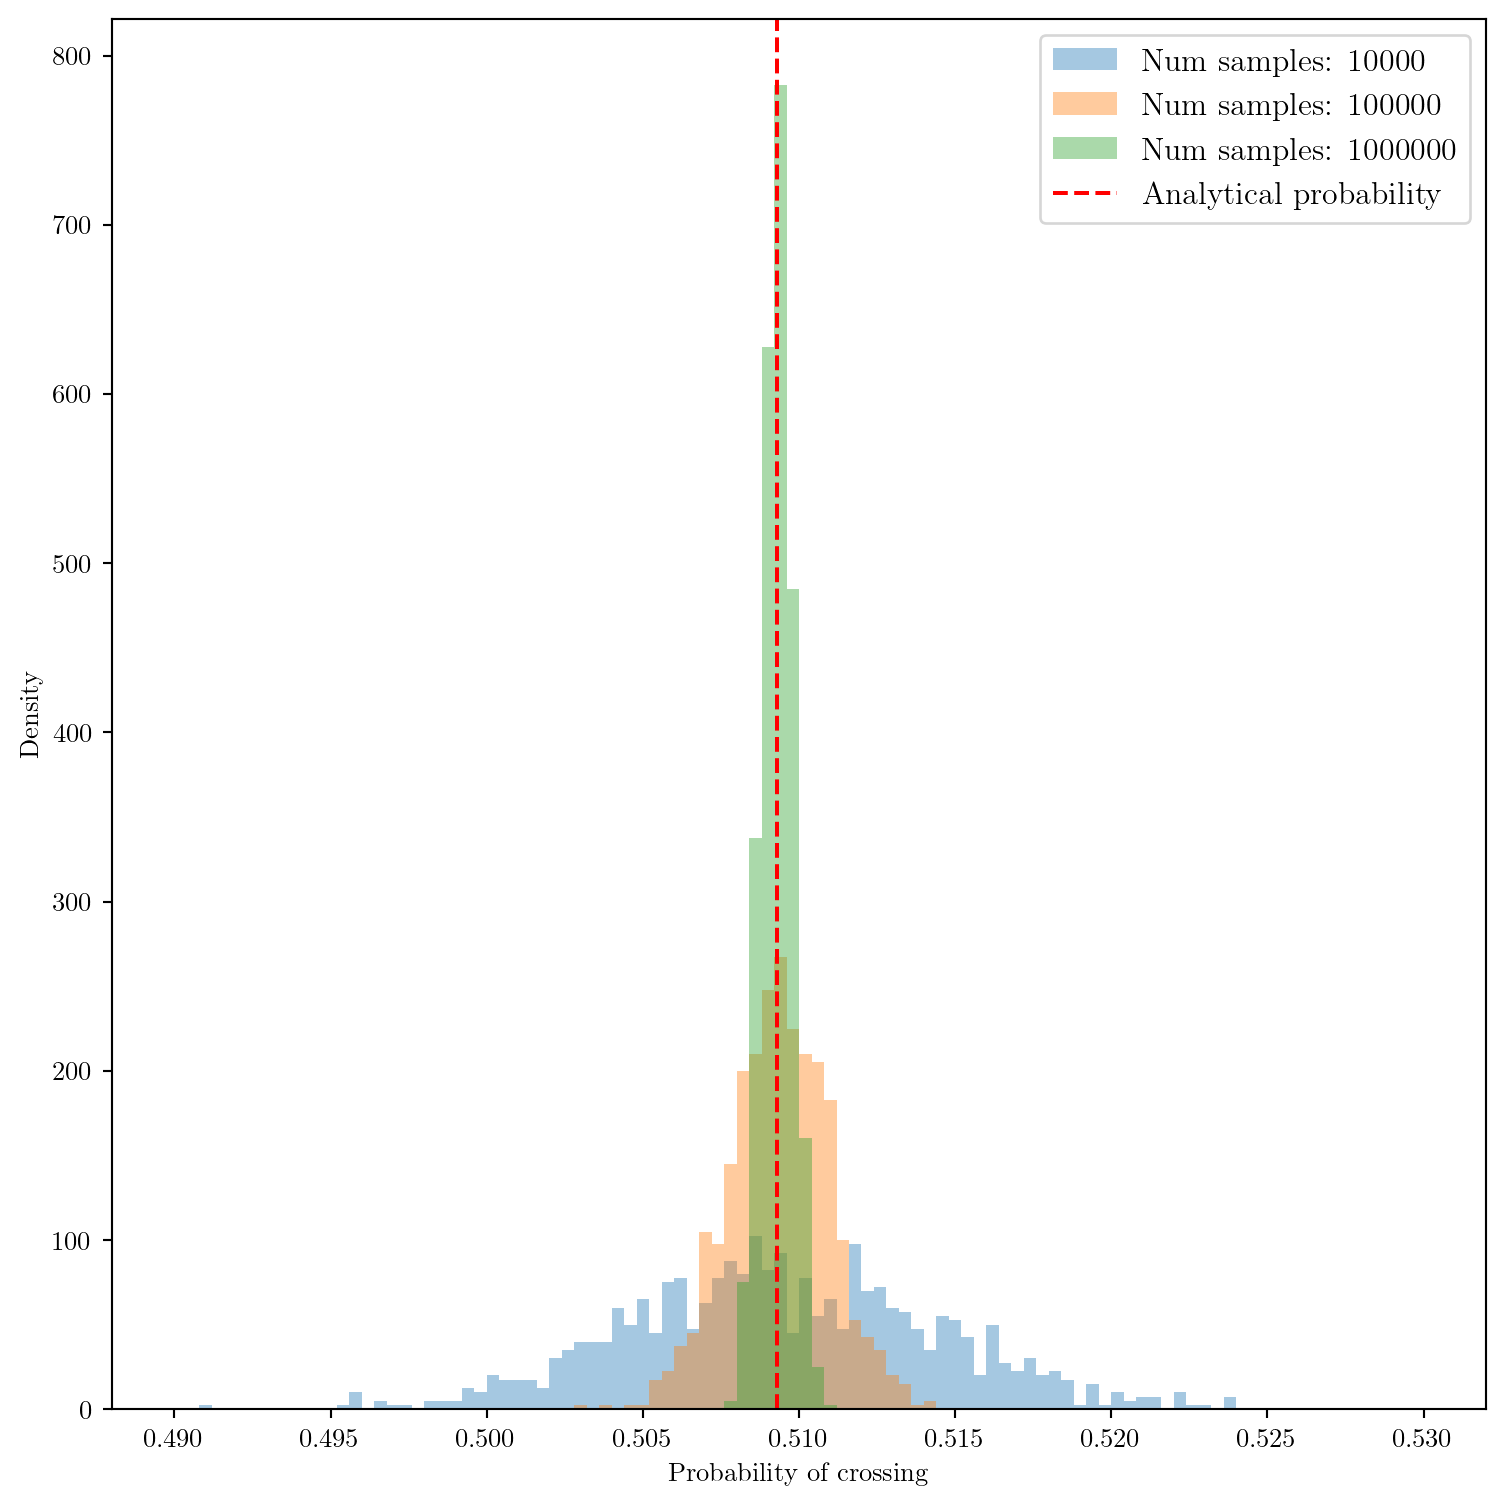
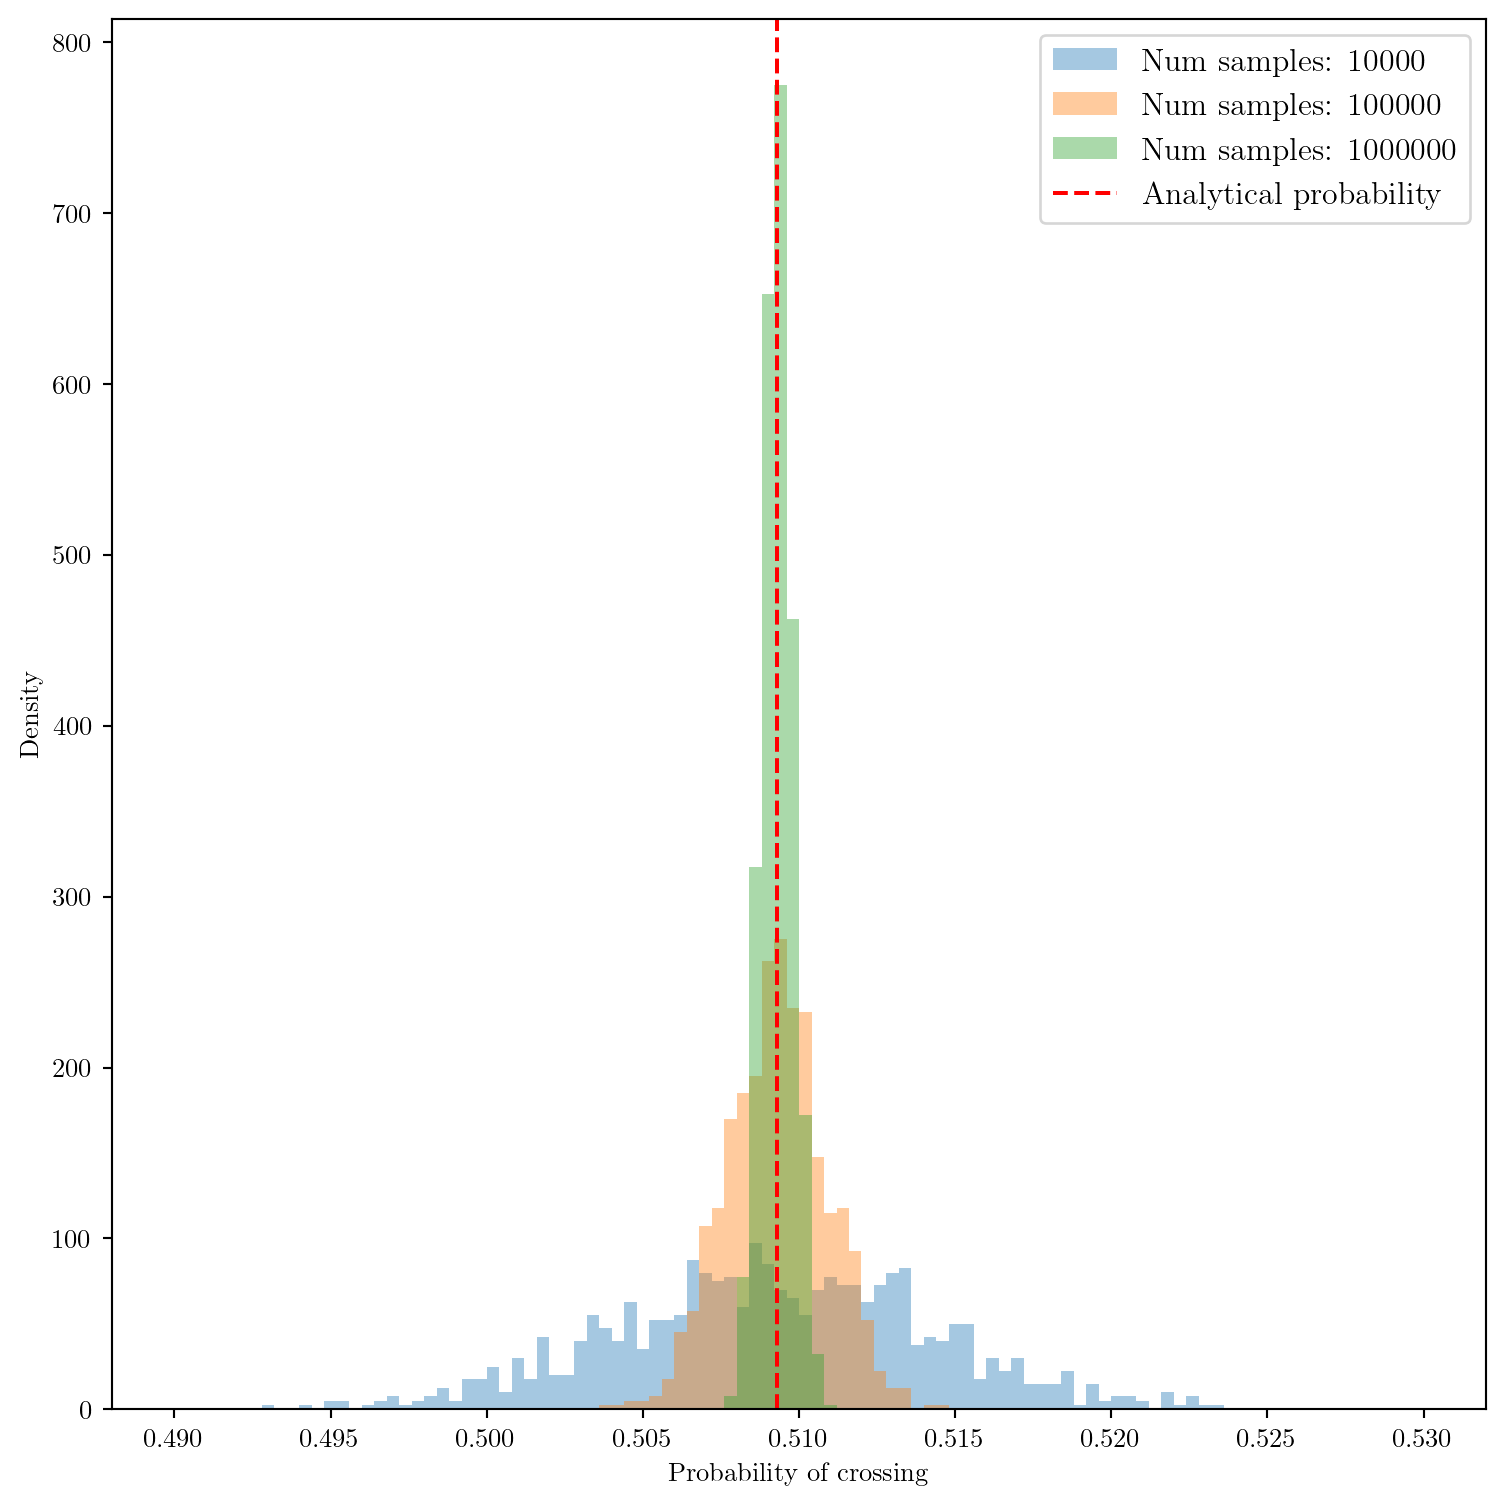
Built site for gh-pages

diff --git a/Phy_Stat_UPC/aiguille_aleatoire.html b/Phy_Stat_UPC/aiguille_aleatoire.html
@@ -67,7 +67,7 @@ pre > code.sourceCode > span > a:first-child::before { text-decoration: underlin
 <script src="../site_libs/quarto-search/fuse.min.js"></script>
 <script src="../site_libs/quarto-search/quarto-search.js"></script>
 <meta name="quarto:offset" content="../">
-<link href="../https://emojipedia.org/milky-way" rel="icon">
+<link href="../assets/milky-way.png" rel="icon" type="image/png">
 <script src="../site_libs/quarto-html/quarto.js"></script>
 <script src="../site_libs/quarto-html/popper.min.js"></script>
 <script src="../site_libs/quarto-html/tippy.umd.min.js"></script>
@@ -251,7 +251,7 @@ window.Quarto = {
 </header>
 
 
-<div id="6e35c96d" class="cell" data-execution_count="1">
+<div id="aaf92d01" class="cell" data-execution_count="1">
 <div class="cell-output cell-output-stderr">
 <pre><code>&lt;frozen importlib._bootstrap&gt;:241: RuntimeWarning:
 
@@ -296,7 +296,7 @@ Figure&nbsp;1: Visualisation des aiguilles échantillonnées aléatoirement.
 </div>
 </div>
 <p>On peut maintenant implémenter des fonctions pour déterminer si une aiguille croise la ligne <span class="math inline">\(x=0\)</span>. Nous pouvons adopter deux stratégies: - Vérifier si l’aiguille croise en utilisant les extrémités de l’aiguille (<code>is_needle_crossing_endpoint</code>). - Vérifier si l’aiguille croise en utilisant le centre (<code>is_needle_crossing_middle</code>).</p>
-<div id="618c046a" class="cell" data-execution_count="6">
+<div id="5bce7862" class="cell" data-execution_count="6">
 <div class="sourceCode cell-code" id="cb2"><pre class="sourceCode python code-with-copy"><code class="sourceCode python"><span id="cb2-1"><a href="#cb2-1" aria-hidden="true" tabindex="-1"></a>np.<span class="bu">all</span>( is_needle_crossing_endpoint(x, angle, l) <span class="op">==</span> is_needle_crossing_middle(x, angle, l))</span></code><button title="Copy to Clipboard" class="code-copy-button"><i class="bi"></i></button></pre></div>
 <div class="cell-output cell-output-display" data-execution_count="6">
 <pre><code>False</code></pre>
@@ -320,7 +320,7 @@ Figure&nbsp;2: Visualisation des aiguilles échantillonnées aléatoirement avec
 <section id="calcul-de-la-probabilité-de-croisement" class="level2">
 <h2 class="anchored" data-anchor-id="calcul-de-la-probabilité-de-croisement">Calcul de la probabilité de croisement</h2>
 <p>On peut maintenant écrire une fonction pour estimer la probabilité de croisement en échantillonnant un grand nombre d’aiguilles et en comptant le nombre de croisements.</p>
-<div id="7f6451ce" class="cell" data-execution_count="8">
+<div id="0bd7cfd0" class="cell" data-execution_count="8">
 <div class="sourceCode cell-code" id="cb4"><pre class="sourceCode python code-with-copy"><code class="sourceCode python"><span id="cb4-1"><a href="#cb4-1" aria-hidden="true" tabindex="-1"></a><span class="kw">def</span> compute_probability(num_samples, a, l):</span>
 <span id="cb4-2"><a href="#cb4-2" aria-hidden="true" tabindex="-1"></a>    <span class="co">"""</span></span>
 <span id="cb4-3"><a href="#cb4-3" aria-hidden="true" tabindex="-1"></a><span class="co">    Computes the probability of crossing the line x=0.</span></span>
@@ -343,20 +343,20 @@ Figure&nbsp;2: Visualisation des aiguilles échantillonnées aléatoirement avec
 <span id="cb4-20"><a href="#cb4-20" aria-hidden="true" tabindex="-1"></a>    bool_crossing <span class="op">=</span> is_needle_crossing_endpoint(x, angle, l)</span>
 <span id="cb4-21"><a href="#cb4-21" aria-hidden="true" tabindex="-1"></a>    <span class="cf">return</span> np.mean(bool_crossing)</span></code><button title="Copy to Clipboard" class="code-copy-button"><i class="bi"></i></button></pre></div>
 </div>
-<div id="7be66b54" class="cell" data-execution_count="9">
+<div id="e2667bc9" class="cell" data-execution_count="9">
 <div class="sourceCode cell-code" id="cb5"><pre class="sourceCode python code-with-copy"><code class="sourceCode python"><span id="cb5-1"><a href="#cb5-1" aria-hidden="true" tabindex="-1"></a>num_samples <span class="op">=</span> <span class="dv">100_000</span></span>
 <span id="cb5-2"><a href="#cb5-2" aria-hidden="true" tabindex="-1"></a></span>
 <span id="cb5-3"><a href="#cb5-3" aria-hidden="true" tabindex="-1"></a>proba <span class="op">=</span> compute_probability(num_samples, a<span class="op">=</span>a, l<span class="op">=</span>l)</span>
 <span id="cb5-4"><a href="#cb5-4" aria-hidden="true" tabindex="-1"></a><span class="bu">print</span>(<span class="ss">f"Estimated probability: </span><span class="sc">{</span>proba<span class="sc">:.4f}</span><span class="ss">"</span>)</span>
 <span id="cb5-5"><a href="#cb5-5" aria-hidden="true" tabindex="-1"></a><span class="bu">print</span>(<span class="ss">f"Target probability: </span><span class="sc">{</span><span class="dv">2</span><span class="op">*</span>l<span class="op">/</span>(np.pi<span class="op">*</span>a)<span class="sc">:.4f}</span><span class="ss">"</span>)</span></code><button title="Copy to Clipboard" class="code-copy-button"><i class="bi"></i></button></pre></div>
 <div class="cell-output cell-output-stdout">
-<pre><code>Estimated probability: 0.5076
+<pre><code>Estimated probability: 0.5105
 Target probability: 0.5093</code></pre>
 </div>
 </div>
 <p>Les deux valeurs sont en bon accord, ce qui valide notre simulation. Nous pouvons maintenant étudier la convergence de l’estimation de la probabilité en fonction du nombre d’échantillons. En particulier, en répétant l’expérience plusieurs fois pour un nombre fixe d’échantillons, nous pouvons estimer la variance de l’estimation ce qui permettra d’estimer un intervalle de confiance pour la valeur de la probabilité.</p>
 <p>Ecrivons d’abord la fonction <code>sample_proba</code> qui répète l’expérience plusieurs fois pour un nombre fixe d’échantillons.</p>
-<div id="3ed26315" class="cell" data-execution_count="10">
+<div id="2c63d5b0" class="cell" data-execution_count="10">
 <div class="sourceCode cell-code" id="cb7"><pre class="sourceCode python code-with-copy"><code class="sourceCode python"><span id="cb7-1"><a href="#cb7-1" aria-hidden="true" tabindex="-1"></a><span class="kw">def</span> sample_proba(num_iter, num_samples, a, l):</span>
 <span id="cb7-2"><a href="#cb7-2" aria-hidden="true" tabindex="-1"></a>    <span class="co">"""</span></span>
 <span id="cb7-3"><a href="#cb7-3" aria-hidden="true" tabindex="-1"></a><span class="co">    Samples the probability of crossing the line x=0 multiple times.</span></span>
@@ -385,9 +385,9 @@ Target probability: 0.5093</code></pre>
 <span id="cb7-26"><a href="#cb7-26" aria-hidden="true" tabindex="-1"></a>    )</span></code><button title="Copy to Clipboard" class="code-copy-button"><i class="bi"></i></button></pre></div>
 </div>
 <p>On peut maintenant répéter l’expérience pour différents nombres d’échantillons et tracer la convergence de l’estimation de la probabilité.</p>
-<div id="d24f81e0" class="cell" data-execution_count="11">
+<div id="cbf981c3" class="cell" data-execution_count="11">
 <div class="cell-output cell-output-stderr">
-<pre><code>  0%|          | 0/6 [00:00&lt;?, ?it/s] 50%|█████     | 3/6 [00:00&lt;00:00, 21.78it/s] 50%|█████     | 3/6 [00:19&lt;00:00, 21.78it/s]100%|██████████| 6/6 [01:28&lt;00:00, 17.41s/it]100%|██████████| 6/6 [01:28&lt;00:00, 14.80s/it]</code></pre>
+<pre><code>  0%|          | 0/6 [00:00&lt;?, ?it/s] 50%|█████     | 3/6 [00:00&lt;00:00, 22.13it/s] 50%|█████     | 3/6 [00:19&lt;00:00, 22.13it/s]100%|██████████| 6/6 [01:12&lt;00:00, 14.18s/it]100%|██████████| 6/6 [01:12&lt;00:00, 12.06s/it]</code></pre>
 </div>
 </div>
 <div id="cell-fig-proba-convergence" class="cell" data-execution_count="12">
@@ -421,14 +421,14 @@ Figure&nbsp;4: Écart-type de l’estimation de la probabilité en fonction du n
 </div>
 </div>
 <p>On observe une relation de type loi de puissance entre l’écart-type et le nombre d’échantillons. Pour quantifier cette relation, nous pouvons effectuer une régression linéaire sur les données log-log.</p>
-<div id="c9179b99" class="cell" data-execution_count="14">
+<div id="4ba32fd4" class="cell" data-execution_count="14">
 <div class="sourceCode cell-code" id="cb9"><pre class="sourceCode python code-with-copy"><code class="sourceCode python"><span id="cb9-1"><a href="#cb9-1" aria-hidden="true" tabindex="-1"></a>log_num_samples <span class="op">=</span> np.log(num_samples_list)</span>
 <span id="cb9-2"><a href="#cb9-2" aria-hidden="true" tabindex="-1"></a>log_std_proba <span class="op">=</span> np.log(std_proba)</span>
 <span id="cb9-3"><a href="#cb9-3" aria-hidden="true" tabindex="-1"></a>slope, intercept, r_value, p_value, std_err <span class="op">=</span> stats.linregress(log_num_samples, log_std_proba)</span>
 <span id="cb9-4"><a href="#cb9-4" aria-hidden="true" tabindex="-1"></a></span>
 <span id="cb9-5"><a href="#cb9-5" aria-hidden="true" tabindex="-1"></a><span class="bu">print</span>(<span class="ss">f"Slope: </span><span class="sc">{</span>slope<span class="sc">:.4f}</span><span class="ss"> ± </span><span class="sc">{</span>std_err<span class="sc">:.4f}</span><span class="ss">"</span>)</span></code><button title="Copy to Clipboard" class="code-copy-button"><i class="bi"></i></button></pre></div>
 <div class="cell-output cell-output-stdout">
-<pre><code>Slope: -0.4991 ± 0.0013</code></pre>
+<pre><code>Slope: -0.4985 ± 0.0021</code></pre>
 </div>
 </div>
 <p>On observe que la variance de l’esimateur décroît en <span class="math inline">\(\propto N^{-1/2}\)</span>. Connaissez-vous un théorème important en statistique qui explique ce comportement?</p>
@@ -489,11 +489,11 @@ Figure&nbsp;7: Estimation de la valeur de <span class="math inline">\(\pi\)</spa
 </div>
 </div>
 <p>Cela fonctionne bien! 🥳 On peut calculer l’estimation avec le plus grand nombre d’échantillons</p>
-<div id="ef9e21e1" class="cell" data-execution_count="18">
+<div id="c99418d9" class="cell" data-execution_count="18">
 <div class="sourceCode cell-code" id="cb11"><pre class="sourceCode python code-with-copy"><code class="sourceCode python"><span id="cb11-1"><a href="#cb11-1" aria-hidden="true" tabindex="-1"></a>mean_pi[<span class="op">-</span><span class="dv">1</span>], std_pi[<span class="op">-</span><span class="dv">1</span>]</span>
 <span id="cb11-2"><a href="#cb11-2" aria-hidden="true" tabindex="-1"></a><span class="bu">print</span>(<span class="ss">f"Estimated value of pi: </span><span class="sc">{</span>mean_pi[<span class="op">-</span><span class="dv">1</span>]<span class="sc">:.6f}</span><span class="ss"> ± </span><span class="sc">{</span>std_pi[<span class="op">-</span><span class="dv">1</span>]<span class="sc">:.6f}</span><span class="ss">"</span>)</span></code><button title="Copy to Clipboard" class="code-copy-button"><i class="bi"></i></button></pre></div>
 <div class="cell-output cell-output-stdout">
-<pre><code>Estimated value of pi: 3.141611 ± 0.003045</code></pre>
+<pre><code>Estimated value of pi: 3.141564 ± 0.003025</code></pre>
 </div>
 </div>
 <p>On retrouve la valeur de <span class="math inline">\(\pi\)</span> à <span class="math inline">\(10^{-3}\)</span> près avec <span class="math inline">\(10^6\)</span> échantillons! Théoriquement, pour atteindre une précision de <span class="math inline">\(10^{-n}\)</span>, il faudrait environ <span class="math inline">\(10^{2n}\)</span> échantillons car l’erreur diminue en <span class="math inline">\(\propto N^{-1/2}\)</span>. Mais cela devient très coûteux en temps de calcul pour des précisions élevées…</p>

diff --git a/ILI_tutorial/1mois_1labo_sbi.html b/ILI_tutorial/1mois_1labo_sbi.html
@@ -64,7 +64,7 @@ pre > code.sourceCode > span > a:first-child::before { text-decoration: underlin
 <script src="../site_libs/quarto-search/fuse.min.js"></script>
 <script src="../site_libs/quarto-search/quarto-search.js"></script>
 <meta name="quarto:offset" content="../">
-<link href="../https://emojipedia.org/milky-way" rel="icon">
+<link href="../assets/milky-way.png" rel="icon" type="image/png">
 <script src="../site_libs/quarto-html/quarto.js"></script>
 <script src="../site_libs/quarto-html/popper.min.js"></script>
 <script src="../site_libs/quarto-html/tippy.umd.min.js"></script>

diff --git a/ILI_tutorial/1mois_1labo_sbi_french.html b/ILI_tutorial/1mois_1labo_sbi_french.html
@@ -64,7 +64,7 @@ pre > code.sourceCode > span > a:first-child::before { text-decoration: underlin
 <script src="../site_libs/quarto-search/fuse.min.js"></script>
 <script src="../site_libs/quarto-search/quarto-search.js"></script>
 <meta name="quarto:offset" content="../">
-<link href="../https://emojipedia.org/milky-way" rel="icon">
+<link href="../assets/milky-way.png" rel="icon" type="image/png">
 <script src="../site_libs/quarto-html/quarto.js"></script>
 <script src="../site_libs/quarto-html/popper.min.js"></script>
 <script src="../site_libs/quarto-html/tippy.umd.min.js"></script>

diff --git a/ILI_tutorial/1mois_1labo_sbi_gap.html b/ILI_tutorial/1mois_1labo_sbi_gap.html
@@ -64,7 +64,7 @@ pre > code.sourceCode > span > a:first-child::before { text-decoration: underlin
 <script src="../site_libs/quarto-search/fuse.min.js"></script>
 <script src="../site_libs/quarto-search/quarto-search.js"></script>
 <meta name="quarto:offset" content="../">
-<link href="../https://emojipedia.org/milky-way" rel="icon">
+<link href="../assets/milky-way.png" rel="icon" type="image/png">
 <script src="../site_libs/quarto-html/quarto.js"></script>
 <script src="../site_libs/quarto-html/popper.min.js"></script>
 <script src="../site_libs/quarto-html/tippy.umd.min.js"></script>

diff --git a/ILI_tutorial/jaxili_tutorial.html b/ILI_tutorial/jaxili_tutorial.html
@@ -64,7 +64,7 @@ pre > code.sourceCode > span > a:first-child::before { text-decoration: underlin
 <script src="../site_libs/quarto-search/fuse.min.js"></script>
 <script src="../site_libs/quarto-search/quarto-search.js"></script>
 <meta name="quarto:offset" content="../">
-<link href="../https://emojipedia.org/milky-way" rel="icon">
+<link href="../assets/milky-way.png" rel="icon" type="image/png">
 <script src="../site_libs/quarto-html/quarto.js"></script>
 <script src="../site_libs/quarto-html/popper.min.js"></script>
 <script src="../site_libs/quarto-html/tippy.umd.min.js"></script>

diff --git a/ILI_tutorial/jaxili_tutorial_gap.html b/ILI_tutorial/jaxili_tutorial_gap.html
@@ -64,7 +64,7 @@ pre > code.sourceCode > span > a:first-child::before { text-decoration: underlin
 <script src="../site_libs/quarto-search/fuse.min.js"></script>
 <script src="../site_libs/quarto-search/quarto-search.js"></script>
 <meta name="quarto:offset" content="../">
-<link href="../https://emojipedia.org/milky-way" rel="icon">
+<link href="../assets/milky-way.png" rel="icon" type="image/png">
 <script src="../site_libs/quarto-html/quarto.js"></script>
 <script src="../site_libs/quarto-html/popper.min.js"></script>
 <script src="../site_libs/quarto-html/tippy.umd.min.js"></script>

diff --git a/Phy_Quantique_UPC/TD6.html b/Phy_Quantique_UPC/TD6.html
@@ -64,7 +64,7 @@ pre > code.sourceCode > span > a:first-child::before { text-decoration: underlin
 <script src="../site_libs/quarto-search/fuse.min.js"></script>
 <script src="../site_libs/quarto-search/quarto-search.js"></script>
 <meta name="quarto:offset" content="../">
-<link href="../https://emojipedia.org/milky-way" rel="icon">
+<link href="../assets/milky-way.png" rel="icon" type="image/png">
 <script src="../site_libs/quarto-html/quarto.js"></script>
 <script src="../site_libs/quarto-html/popper.min.js"></script>
 <script src="../site_libs/quarto-html/tippy.umd.min.js"></script>

diff --git a/Phy_Quantique_UPC/gaussian.html b/Phy_Quantique_UPC/gaussian.html
@@ -64,7 +64,7 @@ pre > code.sourceCode > span > a:first-child::before { text-decoration: underlin
 <script src="../site_libs/quarto-search/fuse.min.js"></script>
 <script src="../site_libs/quarto-search/quarto-search.js"></script>
 <meta name="quarto:offset" content="../">
-<link href="../https://emojipedia.org/milky-way" rel="icon">
+<link href="../assets/milky-way.png" rel="icon" type="image/png">
 <script src="../site_libs/quarto-html/quarto.js"></script>
 <script src="../site_libs/quarto-html/popper.min.js"></script>
 <script src="../site_libs/quarto-html/tippy.umd.min.js"></script>

diff --git a/Phy_Quantique_UPC/molecule_benzene.html b/Phy_Quantique_UPC/molecule_benzene.html
@@ -64,7 +64,7 @@ pre > code.sourceCode > span > a:first-child::before { text-decoration: underlin
 <script src="../site_libs/quarto-search/fuse.min.js"></script>
 <script src="../site_libs/quarto-search/quarto-search.js"></script>
 <meta name="quarto:offset" content="../">
-<link href="../https://emojipedia.org/milky-way" rel="icon">
+<link href="../assets/milky-way.png" rel="icon" type="image/png">
 <script src="../site_libs/quarto-html/quarto.js"></script>
 <script src="../site_libs/quarto-html/popper.min.js"></script>
 <script src="../site_libs/quarto-html/tippy.umd.min.js"></script>

diff --git a/Phy_Quantique_UPC/puit_de_potentiel.html b/Phy_Quantique_UPC/puit_de_potentiel.html
@@ -64,7 +64,7 @@ pre > code.sourceCode > span > a:first-child::before { text-decoration: underlin
 <script src="../site_libs/quarto-search/fuse.min.js"></script>
 <script src="../site_libs/quarto-search/quarto-search.js"></script>
 <meta name="quarto:offset" content="../">
-<link href="../https://emojipedia.org/milky-way" rel="icon">
+<link href="../assets/milky-way.png" rel="icon" type="image/png">
 <script src="../site_libs/quarto-html/quarto.js"></script>
 <script src="../site_libs/quarto-html/popper.min.js"></script>
 <script src="../site_libs/quarto-html/tippy.umd.min.js"></script>

diff --git a/Phy_Quantique_UPC/puit_de_potentiel_full.html b/Phy_Quantique_UPC/puit_de_potentiel_full.html
@@ -64,7 +64,7 @@ pre > code.sourceCode > span > a:first-child::before { text-decoration: underlin
 <script src="../site_libs/quarto-search/fuse.min.js"></script>
 <script src="../site_libs/quarto-search/quarto-search.js"></script>
 <meta name="quarto:offset" content="../">
-<link href="../https://emojipedia.org/milky-way" rel="icon">
+<link href="../assets/milky-way.png" rel="icon" type="image/png">
 <script src="../site_libs/quarto-html/quarto.js"></script>
 <script src="../site_libs/quarto-html/popper.min.js"></script>
 <script src="../site_libs/quarto-html/tippy.umd.min.js"></script>

diff --git a/Phy_Stat_UPC/TD3_entropie.html b/Phy_Stat_UPC/TD3_entropie.html
@@ -64,7 +64,7 @@ pre > code.sourceCode > span > a:first-child::before { text-decoration: underlin
 <script src="../site_libs/quarto-search/fuse.min.js"></script>
 <script src="../site_libs/quarto-search/quarto-search.js"></script>
 <meta name="quarto:offset" content="../">
-<link href="../https://emojipedia.org/milky-way" rel="icon">
+<link href="../assets/milky-way.png" rel="icon" type="image/png">
 <script src="../site_libs/quarto-html/quarto.js"></script>
 <script src="../site_libs/quarto-html/popper.min.js"></script>
 <script src="../site_libs/quarto-html/tippy.umd.min.js"></script>
